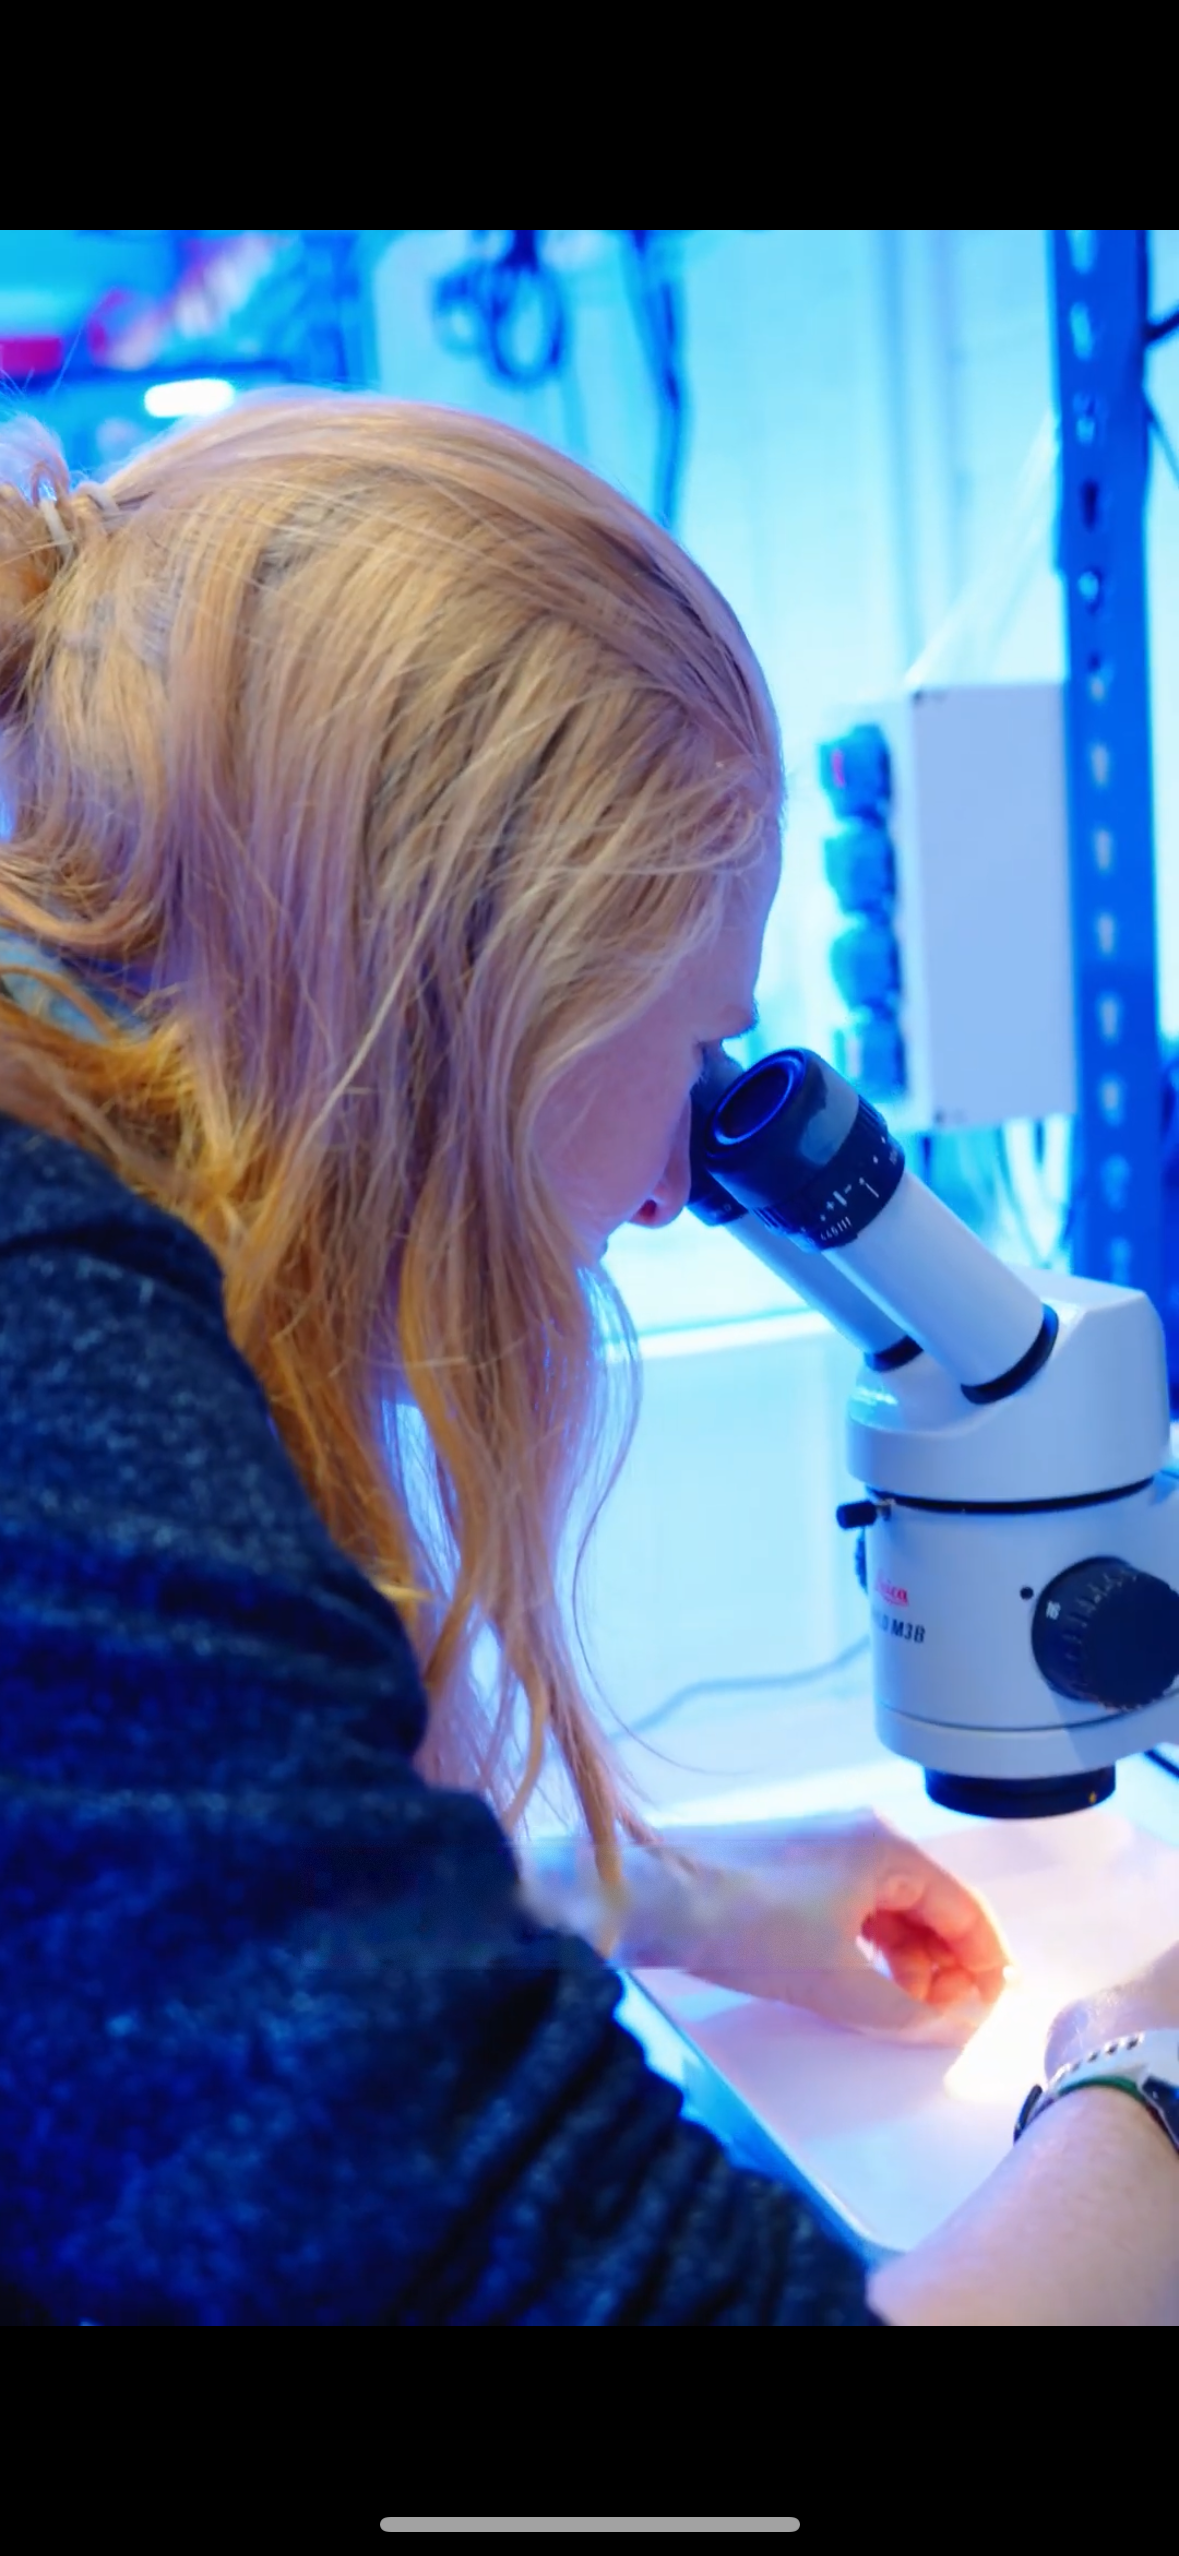
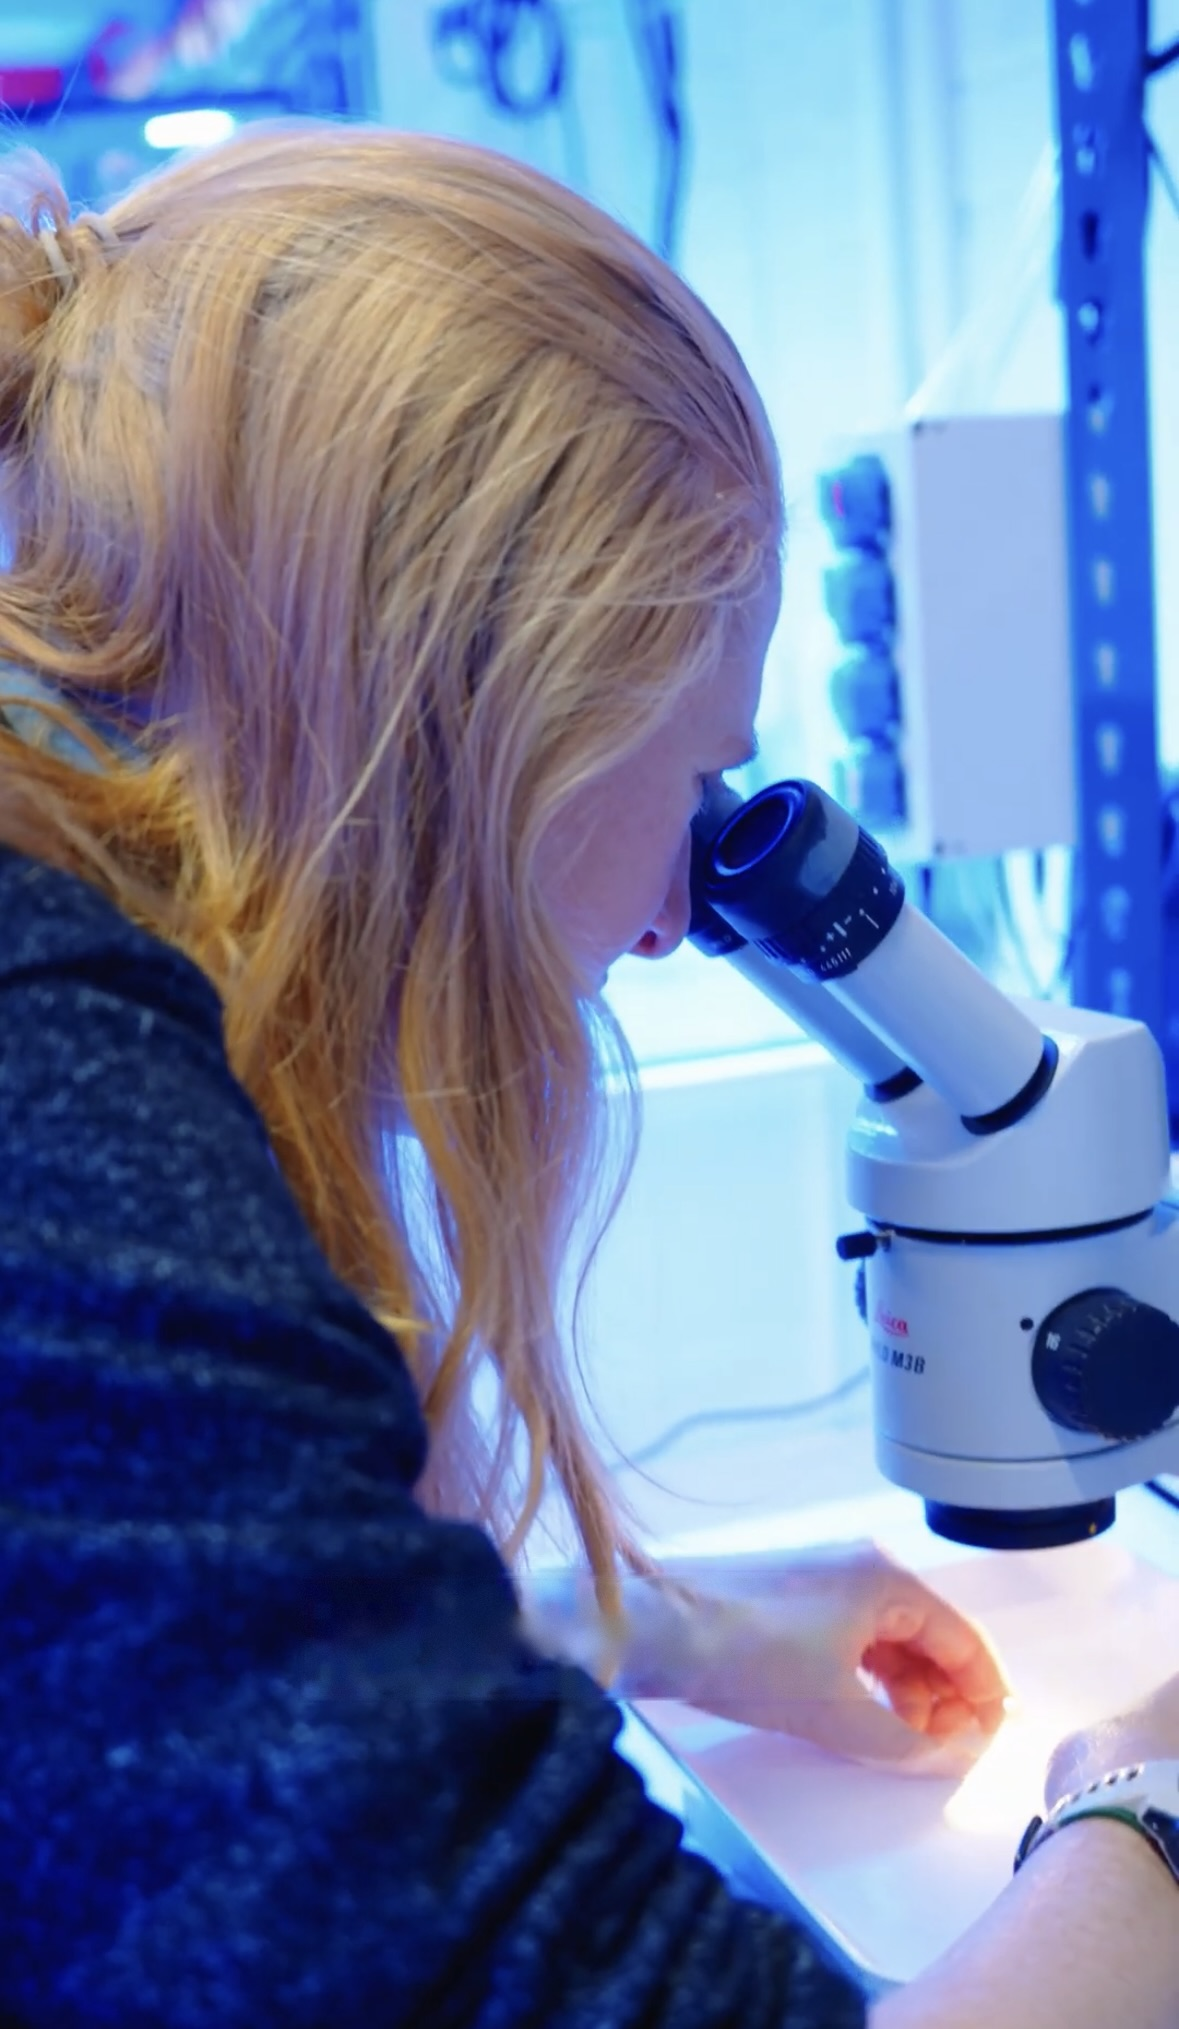
Show lab photo beside research projects

diff --git a/style.css b/style.css
@@ -382,7 +382,30 @@ footer {
 }
 .reveal.in { opacity: 1; transform: translateY(0); }
 
+/* Research page: projects on the left, lab photo on the right */
+.research-layout {
+  display: grid;
+  grid-template-columns: minmax(0, 1fr) 220px;
+  gap: 1.6rem;
+  align-items: start;
+}
+.research-photo {
+  margin: 0;
+  /* line the photo up with the first section's cards */
+  padding-top: calc(clamp(2.2rem, 5vw, 3.6rem) + 3.5rem);
+}
+.research-photo img {
+  width: 100%;
+  height: auto;
+  border: 1px solid var(--sand);
+  border-radius: 4px;
+}
+
 /* Responsive */
+@media (max-width: 860px) {
+  .research-layout { grid-template-columns: 1fr; }
+  .research-photo { padding-top: 0; max-width: 260px; margin: 0 auto 2.5rem; }
+}
 @media (max-width: 720px) {
   .hero { grid-template-columns: 1fr; }
   .hero-photo { width: 120px; height: 120px; order: -1; }

diff --git a/research.html b/research.html
@@ -33,6 +33,9 @@
     <p class="lede"></p>
   </div>
 
+  <div class="research-layout">
+  <div class="research-projects">
+
   <!-- Current Projects -->
   <section class="reveal">
     <div class="section-head"><span class="section-num">01</span><h2 class="section-title">Current Projects</h2></div>
@@ -67,9 +70,15 @@
     </div>
   </section>
 
+  </div>
+
+  <figure class="research-photo reveal">
+    <img src="lab-microscope.png" alt="Researcher using a stereo microscope in the coral culturing lab">
+  </figure>
+  </div>
+
 </main>
 
-<img src="lab-microscope.png" alt="Researcher using a stereo microscope in the coral culturing lab" style="max-width: 400px; width: 100%; height: auto;">
 <footer>
   <div class="footer-wrap">
     <span>© <span id="year"></span> Alice A. Ball</span>
